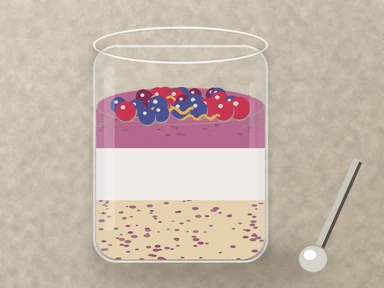
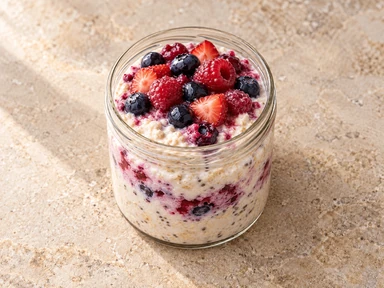
Replace mixed berry curd oats illustration with individual photo

diff --git a/js/overnight-oats.js b/js/overnight-oats.js
@@ -80,7 +80,7 @@ window.OvernightOats = (() => {
       steps: { hu: ['Egy üvegben keverd csomómentesre a fehérjeport és a kakaót a tejjel.', 'Add hozzá a zabot, keverd át, és fedd le.', 'Tedd a hűtőbe legalább 4 órára vagy éjszakára.', 'Reggel tedd a tetejére a felkarikázott banánt és a mogyoróvajat.'], en: ['In a jar, whisk the protein powder and cocoa into the milk until smooth.', 'Stir in the oats and cover.', 'Chill for at least 4 hours or overnight.', 'In the morning top with sliced banana and the peanut butter.'] }, art: ['mix', 'pour', 'chill', 'knife'] },
     { id: 'oats-apple-cinnamon', hu: 'Almás-fahéjas zab dióval', en: 'Apple cinnamon oats with walnuts', sel: { oats: 50, milk15: 120, yogurt: 100, apple: 100, cinnamon: 2, walnut: 10, honey: 10 },
       steps: { hu: ['Reszeld le az almát, és keverd össze a zabbal, a fahéjjal, a joghurttal és a tejjel.', 'Fedd le, és tedd a hűtőbe éjszakára.', 'Reggel csorgasd rá a mézet, és szórd meg durvára vágott dióval.'], en: ['Grate the apple and mix it with the oats, cinnamon, yogurt and milk.', 'Cover and chill overnight.', 'In the morning drizzle with honey and scatter the roughly chopped walnuts on top.'] }, art: ['knife', 'chill', 'serve'] },
-    { id: 'oats-berry-turo', hu: 'Túrós-erdei gyümölcsös zab', en: 'Curd cheese and mixed berry oats', sel: { oats: 50, turo: 100, milk15: 120, berries: 80, chia: 5, honey: 10 },
+    { id: 'oats-berry-turo', photo: true, hu: 'Túrós-erdei gyümölcsös zab', en: 'Curd cheese and mixed berry oats', sel: { oats: 50, turo: 100, milk15: 120, berries: 80, chia: 5, honey: 10 },
       steps: { hu: ['Keverd simára a túrót a tejjel és a mézzel.', 'Forgasd bele a zabot és a chia magot.', 'Rétegezd üvegbe a fagyasztott gyümölccsel, és tedd a hűtőbe éjszakára: reggelre kiolvad és megfesti a krémet.'], en: ['Mix the curd cheese with the milk and honey until smooth.', 'Fold in the oats and chia seeds.', 'Layer in a jar with the frozen berries and chill overnight: by morning they thaw and colour the cream.'] }, art: ['mix', 'mix', 'chill'] },
     { id: 'oats-mango-coconut', hu: 'Mangós-kókuszos zab', en: 'Mango coconut oats', sel: { oats: 50, almond: 150, greek0: 100, mango: 80, coconut: 8, chia: 8 },
       steps: { hu: ['Keverd össze a zabot, a chia magot, a kókuszreszeléket, a joghurtot és a mandulaitalt.', 'Fedd le, és tedd a hűtőbe éjszakára.', 'Reggel tedd a tetejére a felkockázott mangót.'], en: ['Mix the oats, chia seeds, coconut, yogurt and almond drink.', 'Cover and chill overnight.', 'In the morning top with diced mango.'] }, art: ['mix', 'chill', 'knife'] },
@@ -100,7 +100,7 @@ window.OvernightOats = (() => {
       const v = compute(p.sel);
       const old = R.items.find(r => r.id === p.id);
       if (old) { Object.assign(old, { oats: p.sel, kcal: v.kcal, p: v.p, c: v.c, f: v.f, g: v.g, ing: ingredientsOf(p.sel) }); return; }
-      made.push({ id: p.id, cat: 'breakfast', min: 5, servings: 1, hu: p.hu, en: p.en, illustration: true, oats: p.sel, ing: ingredientsOf(p.sel), steps: p.steps, art: p.art, note: INTRO, kcal: v.kcal, p: v.p, c: v.c, f: v.f, g: v.g });
+      made.push({ id: p.id, cat: 'breakfast', min: 5, servings: 1, hu: p.hu, en: p.en, illustration: !p.photo, oats: p.sel, ing: ingredientsOf(p.sel), steps: p.steps, art: p.art, note: INTRO, kcal: v.kcal, p: v.p, c: v.c, f: v.f, g: v.g });
     });
     R.items.splice(at + 1, 0, ...made);
   }

diff --git a/js/release.js b/js/release.js
@@ -1,8 +1,9 @@
 /* Release metadata and visible history shared by the app and service worker. */
 (function (scope) {
-  const version = '2.38.0';
-  const build = '20261028.3';
+  const version = '2.38.1';
+  const build = '20261028.4';
   const history = [
+    {version:'2.38.1',build:'20261028.4',date:'2026-10-28',en:['A new individual photo for curd cheese and mixed berry oats, matching the recipe collection.'],hu:['Új, külön készített fotó a túrós-erdei gyümölcsös zabhoz, a receptgyűjtemény stílusában.']},
     {version:'2.38.0',build:'20261028.3',date:'2026-10-28',en:['Swimming: log pool length, lengths per stroke (freestyle, breaststroke, backstroke, butterfly or mixed), time and pace. Distance, pace per 100 m and estimated active energy appear as you type and count in the calorie budget like other cardio.','Smartwatch ready: in the coming iOS and Android apps your watch’s swim and ride data (lengths, strokes, heart rate, speed, cadence, power, active energy) can be loaded or shown live, and measured energy replaces the estimate. The web app shows what is coming.'],hu:['Úszás: rögzítsd a medence hosszát, a hosszakat úszásnemenként (gyors, mell, hát, pillangó vagy vegyes), az időt és a tempót. A táv, a 100 méterenkénti tempó és a becsült aktív energia gépelés közben látszik, és a többi kardióhoz hasonlóan beszámít a kalóriakeretbe.','Okosórára felkészítve: a készülő iOS és Android appban az órád által mért úszás- és bringaadatok (hosszak, karcsapások, pulzus, sebesség, pedálfordulat, teljesítmény, aktív energia) betölthetők vagy élőben láthatók, és a mért energia felülírja a becslést. A webes változat jelzi, mi érkezik.']},
     {version:'2.37.1',build:'20261028.2',date:'2026-10-28',en:['The overnight oats builder keeps your place when you add or remove ingredients. Amount buttons update in place without losing focus.'],hu:['Az overnight oats összeállító helyben marad, amikor összetevőket adsz hozzá vagy távolítasz el. A mennyiséggombok fókuszvesztés nélkül, helyben frissülnek.']},
     {version:'2.37.0',build:'20261028.1',date:'2026-10-28',en:['Five high-protein, lower-fat overnight oats and five grilled chicken meals with sides, each with its own photo and cooking steps.','Filter recipes for weight loss, maintenance, bulking or muscle growth. Open the goal guide for the reasoning, portion rules and references.','Ingredient-based nutrition estimates, cooked weights and customisable oats.'],hu:['Öt magas fehérjetartalmú, zsírszegény éjszakai zab és öt rostonsült csirkemelles étel körettel, külön fotókkal és elkészítési lépésekkel.','Receptszűrők fogyáshoz, súlytartáshoz, tömegeléshez és izomépítéshez. A célútmutatóban megtalálod az alapelveket, az adagra vonatkozó szabályokat és a hivatkozásokat.','Összetevőkből számolt tápértékbecslések, jelölt főtt súlyok és testreszabható zabok.']},

diff --git a/tools/oats_art.py b/tools/oats_art.py
@@ -114,6 +114,8 @@ SPECS = {
 
 def main():
     for i, (rid, spec) in enumerate(SPECS.items()):
+        if rid == 'oats-berry-turo':  # Replaced by a reviewed generated photo; preserve it.
+            continue
         im = jar(stone(i + 7), spec, i + 3).resize((W, H), Image.LANCZOS)
         im.save(OUT / f'{rid}.webp', 'WEBP', quality=92, method=6)
         im.resize((384, 288), Image.LANCZOS).save(OUT / f'{rid}-thumb.webp', 'WEBP', quality=90, method=6)

diff --git a/CLOUD_HANDOFF.md b/CLOUD_HANDOFF.md
@@ -33,6 +33,13 @@ The owner works with two AI assistants on this repo. Claude leads; ChatGPT/Codex
 
 ---
 
+# Update — Reppsy 2.38.1, 2026-10-28 (Codex)
+
+- Replaced only `oats-berry-turo` full image and thumbnail with a reviewed, separately generated food photo matching the newer oats collection. Provenance: `img/recipes/generated-20261028-berry-oats.json`; whole-frame export, 1448×1086 / 384×288. Recipe quantities/macros unchanged.
+- `js/overnight-oats.js` photo metadata selects the generated-photo caption. Existing Node assertion updated; `tools/oats_art.py` skips this recipe to avoid restoring its old drawing.
+- Main advanced during image generation; fast-forwarded to Claude's `7f54532` and preserved 2.38.0 swimming/wearable work. Backups: `backup/main-20261028-before-berry-oats-image` at `a8ea413`, `backup/main-20261028-before-berry-photo-2380` at `7f54532`. Published as 2.38.1/build 20261028.4, not the earlier unpublished 2.37.2 draft.
+- Passed existing oats Node tests (4), verified-update/diary and LF tests (2), plus isolated real-browser check of card/hero loading, photo caption and 390px HU bounds. Reviewed the generated source and in-app screenshot. Thumbnail DOM natural size is density-corrected by srcset; exported file remains 384×288. No physical-phone check. Release history and manifest rebuilt.
+
 # Update — Reppsy 2.38.0, 2026-10-28 (Claude)
 
 - Owner request: log swimming (lengths, mixed breast/back/free) and prepare smartwatch data for the future iOS/Android apps, also for rides; sauna answered as not counted (no app change).

diff --git a/RELEASES.md b/RELEASES.md
@@ -1,5 +1,9 @@
 # Release versions
 
+## 2.38.1 — 2026-10-28 (build 20261028.4)
+
+Replaced the flat túrós–erdei gyümölcsös oats illustration with an individually generated food photograph and full-frame thumbnail. Recipe and nutrition stay the same. Photo caption metadata updated; the legacy drawing exporter now preserves this replacement.
+
 ## 2.38.0 — 2026-10-28 (build 20261028.3)
 
 Swimming as a cardio type. The form takes pool length (25, 33.3 or 50 m), lengths per stroke (freestyle, breaststroke, backstroke, butterfly, mixed), duration, body weight and pace level, and shows distance, pace per 100 m and estimated active energy while typing. Energy uses the 2024 Compendium of Physical Activities swimming METs (recreational / training: freestyle 5.8 / 9.8, breaststroke 5.3 / 10.3, backstroke 4.8 / 9.5, butterfly 13.8), weighted by lengths, above resting energy like the other cardio types. Impossible combinations (faster than about 130 m/min, fractional lengths) are rejected.
